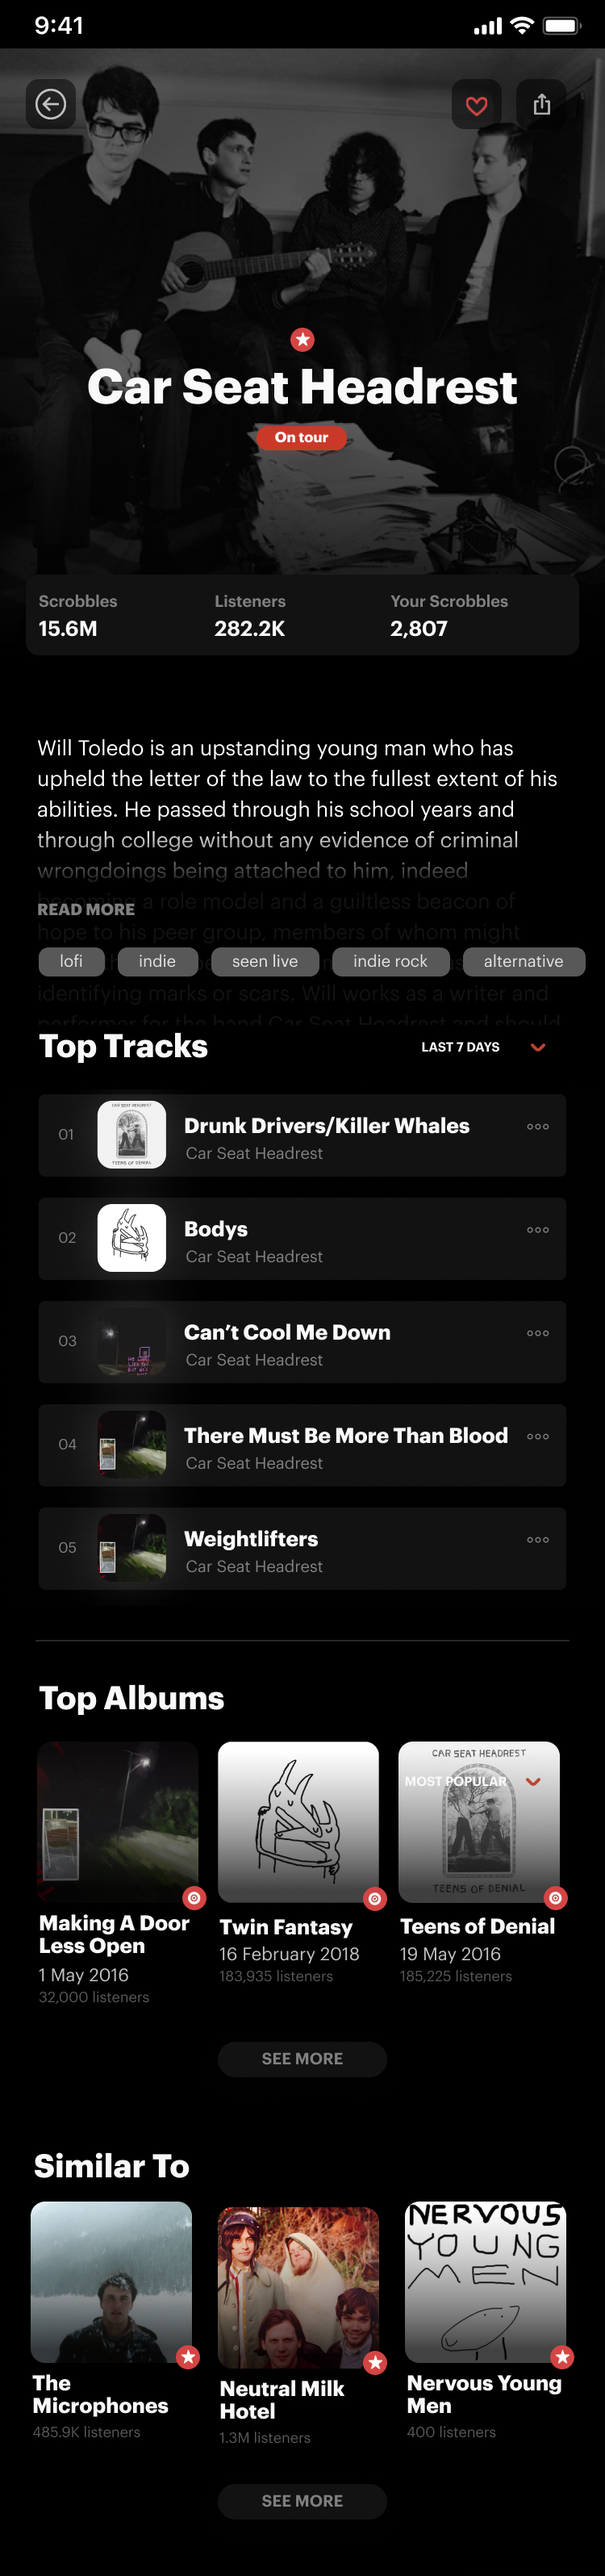
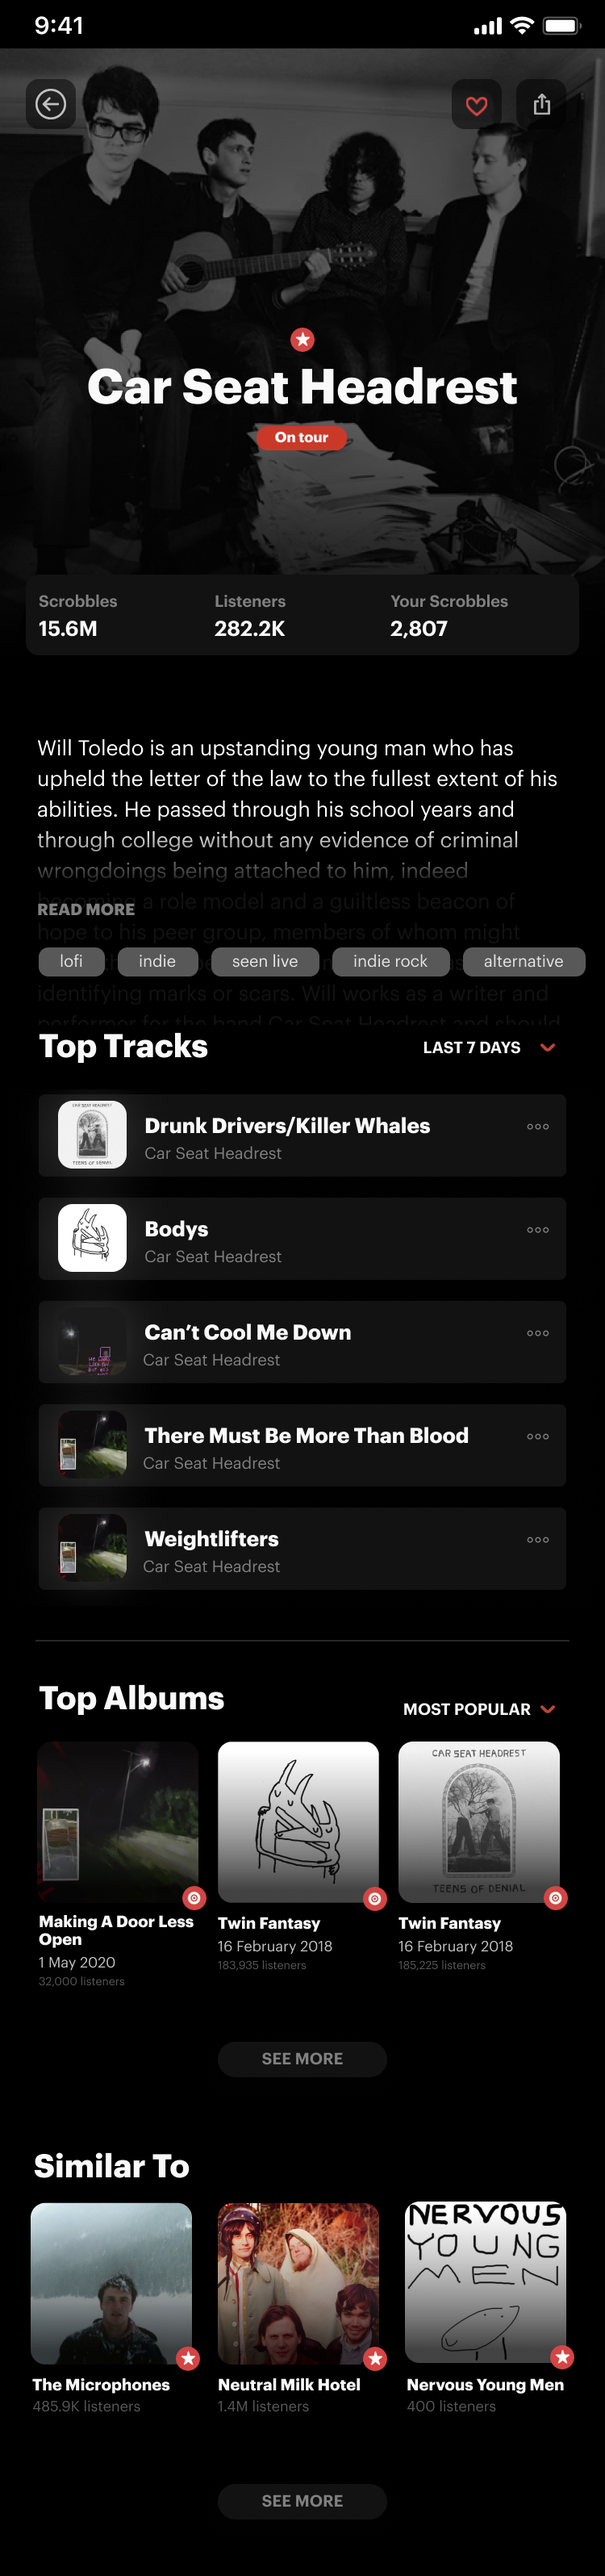
mute da video

diff --git a/public/work/lastfm.html b/public/work/lastfm.html
@@ -396,15 +396,15 @@
                         </div>
 
 
-                    <span class="image-container">
+                    <div class="image-container" style="margin:2em 0 1em 0">
                     <center>
-                     <video autoplay loop>
+                     <video autoplay loop muted>
                                 <source src="../assets/portfolio/lastfm/animation-swap.mp4" type="video/mp4">
                                 Your browser does not support the video tag.
                             </video>
                         <em>Swapping through your top music</em>
                     </center>
-                    </span>
+                    </div>
 
                         <div class="col-half">
                             <h4>Your listening activity at a glance.</h4>
@@ -707,7 +707,7 @@
 
                             <div class="image-container-tall image-container-iphone">
                                 <em>Revised mid-fi album page (scroll ↓)</em>
-                                <img loading="lazy" class="image-full" src="../assets/portfolio/lastfm/mid-album-long-3.jpg">
+                                <img loading="lazy" class="image-full" src="../assets/portfolio/lastfm/mid-album-long-4.jpg">
                             </div>
 
                         </div>
@@ -796,6 +796,15 @@
 
                     <p>Created different views for your own user profile, and discovering others.</p>
                     
+                    
+                    
+                    <h2>Profile Sharing</h2>
+                        <div class="image-container">
+                            <br><br><img loading="lazy" class="image-full" src="../assets/portfolio/lastfm/profile-sharing.jpg" style="max-height:600px;">
+                            <em>Share menu for different profile screens</em>
+                        </div><br>
+                    
+                    <p>I imagine behavior like this to prompt users to share their specific top music views, opening in-app or in the equivalent Last.fm browser view.</p>
                     
                 
                 <h2>Set Obsession</h2>
@@ -904,7 +913,7 @@
                     
                     <span class="image-container">
                     <center>
-                     <video width="280px" autoplay loop>
+                     <video width="280px" autoplay muted loop>
                                 <source src="../assets/portfolio/lastfm/video-launch-min.mp4" type="video/mp4">
                                 Your browser does not support the video tag.
                             </video>
